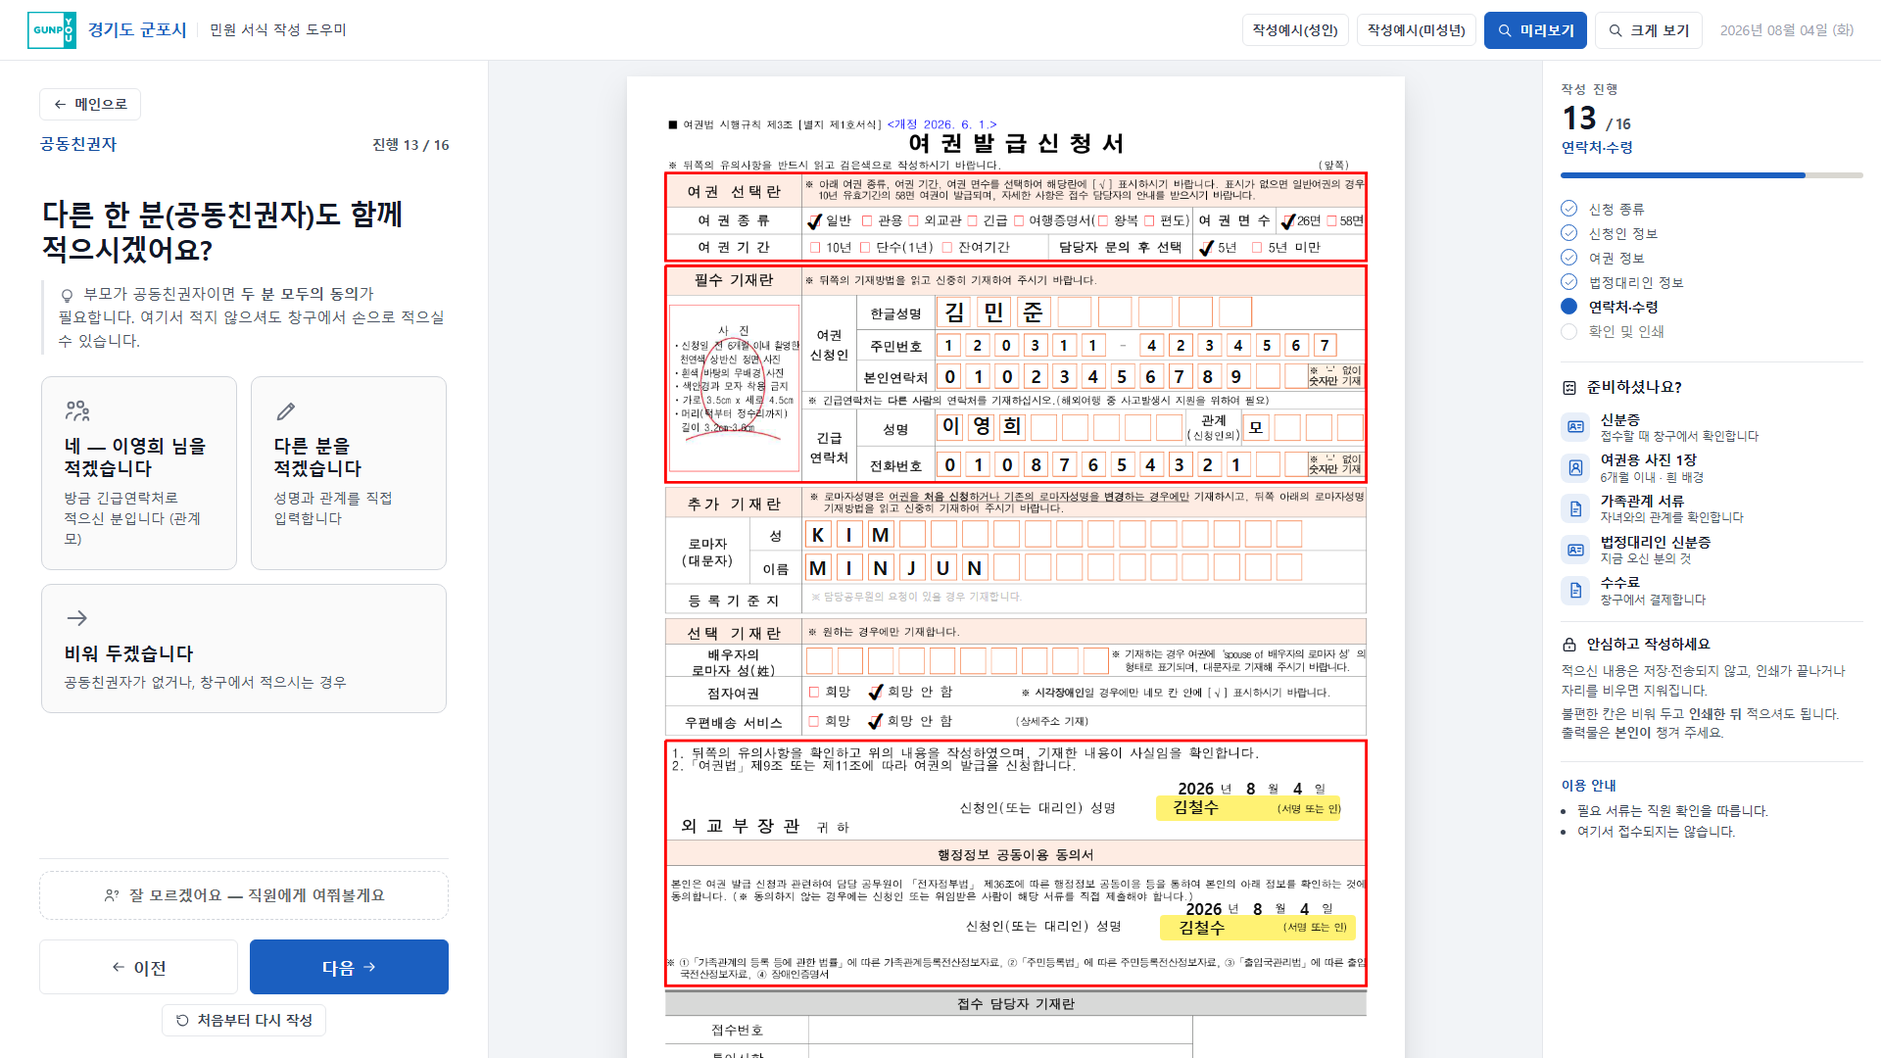
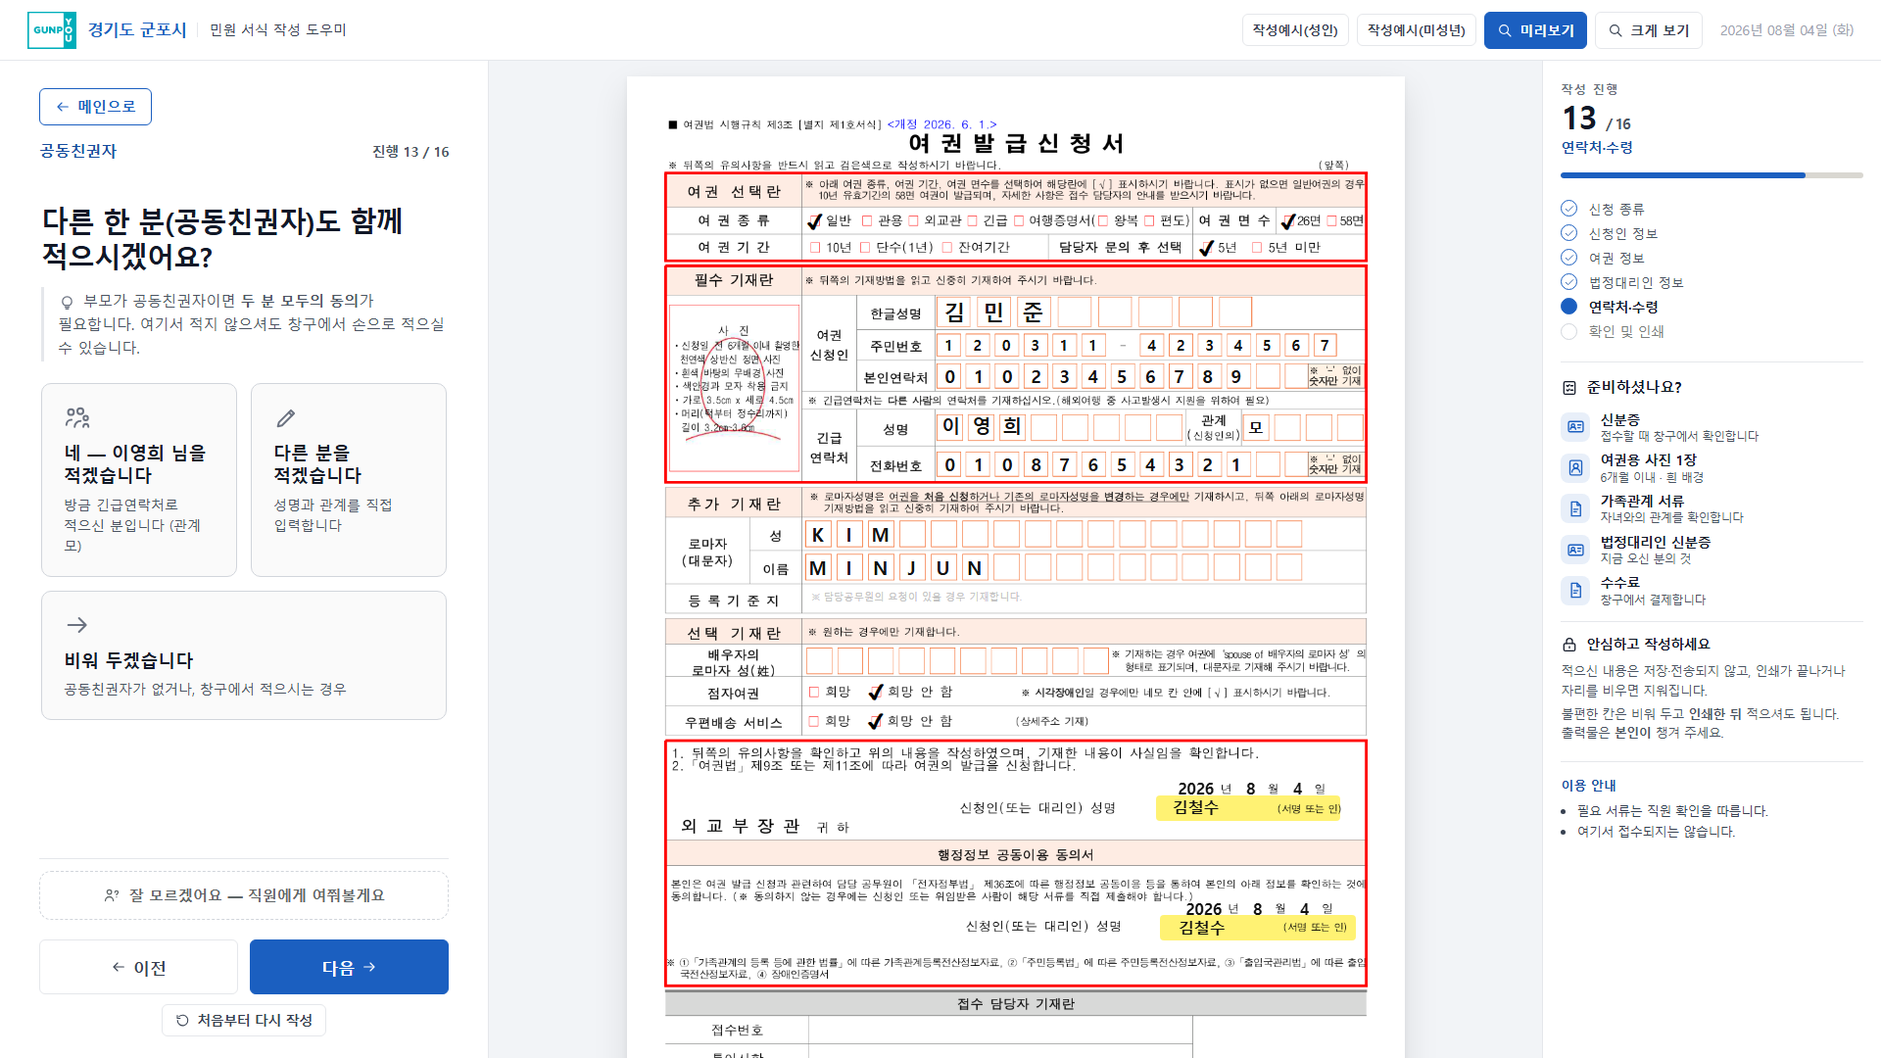
여권: 「← 메인으로」를 Role ② 본문 단추로 — 눈에 걸리지 않던 것
현장 의견 — 「미리보기처럼 좀 눈에 띄면 좋겠다」.

회색 1px 테두리 · 잉크 글자(13.5px) → 대표색 1.5px 테두리 · 대표색 글자 · 흰 면(15px).
BAR 의 [미리보기]와 같은 family 의 테두리 변형이다. 실측 104×33 → 115×38
(크게 보기 114×37 → 133×44).

종전에는 「처음부터 다시 작성」과 같은 계층이었는데 뜻이 다르다 — 메인으로는 되돌릴 수 있는
이동이고 초기화는 되돌릴 수 없는 파기다. 계층이 같으면 그 차이가 보이지 않는다.
그래서 「처음부터 다시 작성」은 Role ④ 그대로 두었다.

⛔ 새 수치를 만들지 않았다 — 이미 있던 `.btn`(Role ② 보조 버튼) 규격을 그대로 썼다.
⛔ 채운 대표색(solid)으로 하지 않았다 — 이 화면에서 앞으로 가는 길은 [다음]이고,
   위아래에 채운 파란 단추가 둘이면 어느 쪽이 진행인지 흐려진다.

나머지 색 문제(BAR tint · [미리보기] 강조도 · Handoff 두 variant 의 톤)는 여전히
Color & Visual Polish backlog 다.

확인: verify-print 19쪽 0px · --electron 19쪽 0px · measure-screen 15화면(가로 넘침 0 ·
종이 794×1122) · verify-site-config 6 · check-design-tokens·check-site-block 9화면 동일 ·
sync-kiosk --check · 질문칸 높이 643→636(일반)·613→604(크게) · RAIL 넘침 0.

diff --git a/kiosk-app/app/passport-helper-v1.html b/kiosk-app/app/passport-helper-v1.html
@@ -669,29 +669,37 @@ html.big{
   /* ⚠ 2026.08.28 — 아래를 지나던 **2px 대표색 띠를 걷었다**(단계 3). 구분은 선이
      아니라 여백이 맡는다(Main 과 같은 문법). ⛔ 되살리지 마라 — 화면마다 색 띠가
      두세 줄씩 생기면 정작 질문이 묻힌다. */
-  /* ASK 상단 navigation — 조용한 되돌아가기. ⚠ 아래 단계 제목과 계층이 겹치지 않게
-     한 치수 작고 잉크색이다(대표색·테두리를 쓰지 않는다). */
-  /* ══ Button Role ④ Compact-Tertiary (2026.08.28) ═══════════════════════
-     「메인으로」와 「처음부터 다시 작성」은 **같은 조형**이다 — 작고 조용한 테두리 단추.
-     ⚠ 종전에는 둘 다 글자만 떠 있어서 **누를 수 있는 것인지 보이지 않았다.**
-        hover 가 없는 터치 화면에서는 알 길이 아예 없다(⛔ hover 의존 금지).
-     ⛔ 눈에 띄게 만들지 마라. 면은 흰색이고 테두리는 1px 이며 대표색을 쓰지 않는다 —
-        이 화면에서 앞으로 가는 길은 [다음]이지 이것들이 아니다.
-     ⚠ 뜻은 서로 다르다 : 메인으로 = **이 업무를 나간다** ·
-        처음부터 = **지금 적은 것을 전부 버린다**(`askConfirm` 으로 한 번 더 묻는다). */
-  .ask-nav{flex:0 0 auto;margin-bottom:12px;}
-  .nav-back,.reset-btn{display:inline-flex;align-items:center;justify-content:center;gap:7px;
-    font-family:inherit;font-size:13.5px;font-weight:var(--fw-bold);line-height:1;
-    color:var(--m-ink-sub);background:var(--m-surface);text-decoration:none;
-    border:1px solid var(--m-border);border-radius:var(--m-r-btn);
-    padding:8px 13px;cursor:pointer;
+  /* ══ ASK 상단 navigation · 하단 초기화 — **역할이 다른 두 단추** ══════════
+     ⚠ 뜻이 다르다 : 메인으로 = **이 업무를 나간다**(되돌릴 수 있다) ·
+        처음부터 = **지금 적은 것을 전부 버린다**(`askConfirm` 으로 한 번 더 묻는다).
+     ⚠ 둘 다 **hover 없이도 누를 수 있는 것임이 보여야 한다** — 종전에는 글자만 떠 있어서
+        터치 화면에서는 알 길이 아예 없었다(⛔ hover 의존 금지).
+     ⚠ 2026.08.29 — 뜻이 다르니 **계층도 갈랐다**(현장 의견).
+        메인으로  = **Role ② 본문 단추**(대표색 테두리 · 대표색 글자 · 흰 면)
+        처음부터  = **Role ④ Compact-Tertiary**(회색 테두리 · 잉크 글자) 그대로
+        ⛔ 여기서 새 수치를 만들지 마라. 위 `.btn` 규격을 그대로 쓴다. */
+  .ask-nav{flex:0 0 auto;margin-bottom:14px;}
+  .nav-back,.reset-btn{display:inline-flex;align-items:center;justify-content:center;
+    font-family:inherit;line-height:1;background:var(--m-surface);text-decoration:none;
+    border-radius:var(--m-r-btn);cursor:pointer;
     transition:border-color var(--dur-quick) var(--ease-out),
                background var(--dur-quick) var(--ease-out),
                color var(--dur-quick) var(--ease-out);}
-  .nav-back:hover{border-color:var(--m-border-mid);background:var(--m-bg);color:var(--blue);}
-  .nav-back .btn-ic,.reset-btn .btn-ic{width:15px;height:15px;}
-  html.big .nav-back,html.big .reset-btn{font-size:15px;padding:9px 14px;}
-  html.big .nav-back .btn-ic,html.big .reset-btn .btn-ic{width:17px;height:17px;}
+  /* Role ② 본문 단추 — BAR 의 [미리보기]와 **같은 family** 의 테두리 변형이다.
+     ⛔ 채운 대표색(solid)으로 만들지 마라. 이 화면에서 **앞으로 가는 길은 [다음]**이고,
+        위아래에 채운 파란 단추가 둘이면 어느 쪽이 진행인지 흐려진다. */
+  .nav-back{gap:7px;font-size:15px;font-weight:var(--fw-bold);
+    color:var(--blue);border:1.5px solid var(--blue);padding:10px 15px;}
+  .nav-back:hover{background:var(--m-a06);}
+  .nav-back .btn-ic{width:16px;height:16px;}
+  /* Role ④ Compact-Tertiary — 되돌릴 수 없는 행동이라 **가장 조용하다** */
+  .reset-btn{gap:7px;font-size:13.5px;font-weight:var(--fw-bold);
+    color:var(--m-ink-sub);border:1px solid var(--m-border);padding:8px 13px;}
+  .reset-btn .btn-ic{width:15px;height:15px;}
+  html.big .nav-back{font-size:17.5px;padding:12px 18px;}
+  html.big .nav-back .btn-ic{width:18px;height:18px;}
+  html.big .reset-btn{font-size:15px;padding:9px 14px;}
+  html.big .reset-btn .btn-ic{width:17px;height:17px;}
 
   .topline{display:flex;justify-content:space-between;align-items:baseline;gap:16px;
     padding-bottom:15px;margin-bottom:26px;flex:0 0 auto;position:relative;}

diff --git a/passport-helper-v1.html b/passport-helper-v1.html
@@ -669,29 +669,37 @@ html.big{
   /* ⚠ 2026.08.28 — 아래를 지나던 **2px 대표색 띠를 걷었다**(단계 3). 구분은 선이
      아니라 여백이 맡는다(Main 과 같은 문법). ⛔ 되살리지 마라 — 화면마다 색 띠가
      두세 줄씩 생기면 정작 질문이 묻힌다. */
-  /* ASK 상단 navigation — 조용한 되돌아가기. ⚠ 아래 단계 제목과 계층이 겹치지 않게
-     한 치수 작고 잉크색이다(대표색·테두리를 쓰지 않는다). */
-  /* ══ Button Role ④ Compact-Tertiary (2026.08.28) ═══════════════════════
-     「메인으로」와 「처음부터 다시 작성」은 **같은 조형**이다 — 작고 조용한 테두리 단추.
-     ⚠ 종전에는 둘 다 글자만 떠 있어서 **누를 수 있는 것인지 보이지 않았다.**
-        hover 가 없는 터치 화면에서는 알 길이 아예 없다(⛔ hover 의존 금지).
-     ⛔ 눈에 띄게 만들지 마라. 면은 흰색이고 테두리는 1px 이며 대표색을 쓰지 않는다 —
-        이 화면에서 앞으로 가는 길은 [다음]이지 이것들이 아니다.
-     ⚠ 뜻은 서로 다르다 : 메인으로 = **이 업무를 나간다** ·
-        처음부터 = **지금 적은 것을 전부 버린다**(`askConfirm` 으로 한 번 더 묻는다). */
-  .ask-nav{flex:0 0 auto;margin-bottom:12px;}
-  .nav-back,.reset-btn{display:inline-flex;align-items:center;justify-content:center;gap:7px;
-    font-family:inherit;font-size:13.5px;font-weight:var(--fw-bold);line-height:1;
-    color:var(--m-ink-sub);background:var(--m-surface);text-decoration:none;
-    border:1px solid var(--m-border);border-radius:var(--m-r-btn);
-    padding:8px 13px;cursor:pointer;
+  /* ══ ASK 상단 navigation · 하단 초기화 — **역할이 다른 두 단추** ══════════
+     ⚠ 뜻이 다르다 : 메인으로 = **이 업무를 나간다**(되돌릴 수 있다) ·
+        처음부터 = **지금 적은 것을 전부 버린다**(`askConfirm` 으로 한 번 더 묻는다).
+     ⚠ 둘 다 **hover 없이도 누를 수 있는 것임이 보여야 한다** — 종전에는 글자만 떠 있어서
+        터치 화면에서는 알 길이 아예 없었다(⛔ hover 의존 금지).
+     ⚠ 2026.08.29 — 뜻이 다르니 **계층도 갈랐다**(현장 의견).
+        메인으로  = **Role ② 본문 단추**(대표색 테두리 · 대표색 글자 · 흰 면)
+        처음부터  = **Role ④ Compact-Tertiary**(회색 테두리 · 잉크 글자) 그대로
+        ⛔ 여기서 새 수치를 만들지 마라. 위 `.btn` 규격을 그대로 쓴다. */
+  .ask-nav{flex:0 0 auto;margin-bottom:14px;}
+  .nav-back,.reset-btn{display:inline-flex;align-items:center;justify-content:center;
+    font-family:inherit;line-height:1;background:var(--m-surface);text-decoration:none;
+    border-radius:var(--m-r-btn);cursor:pointer;
     transition:border-color var(--dur-quick) var(--ease-out),
                background var(--dur-quick) var(--ease-out),
                color var(--dur-quick) var(--ease-out);}
-  .nav-back:hover{border-color:var(--m-border-mid);background:var(--m-bg);color:var(--blue);}
-  .nav-back .btn-ic,.reset-btn .btn-ic{width:15px;height:15px;}
-  html.big .nav-back,html.big .reset-btn{font-size:15px;padding:9px 14px;}
-  html.big .nav-back .btn-ic,html.big .reset-btn .btn-ic{width:17px;height:17px;}
+  /* Role ② 본문 단추 — BAR 의 [미리보기]와 **같은 family** 의 테두리 변형이다.
+     ⛔ 채운 대표색(solid)으로 만들지 마라. 이 화면에서 **앞으로 가는 길은 [다음]**이고,
+        위아래에 채운 파란 단추가 둘이면 어느 쪽이 진행인지 흐려진다. */
+  .nav-back{gap:7px;font-size:15px;font-weight:var(--fw-bold);
+    color:var(--blue);border:1.5px solid var(--blue);padding:10px 15px;}
+  .nav-back:hover{background:var(--m-a06);}
+  .nav-back .btn-ic{width:16px;height:16px;}
+  /* Role ④ Compact-Tertiary — 되돌릴 수 없는 행동이라 **가장 조용하다** */
+  .reset-btn{gap:7px;font-size:13.5px;font-weight:var(--fw-bold);
+    color:var(--m-ink-sub);border:1px solid var(--m-border);padding:8px 13px;}
+  .reset-btn .btn-ic{width:15px;height:15px;}
+  html.big .nav-back{font-size:17.5px;padding:12px 18px;}
+  html.big .nav-back .btn-ic{width:18px;height:18px;}
+  html.big .reset-btn{font-size:15px;padding:9px 14px;}
+  html.big .reset-btn .btn-ic{width:17px;height:17px;}
 
   .topline{display:flex;justify-content:space-between;align-items:baseline;gap:16px;
     padding-bottom:15px;margin-bottom:26px;flex:0 0 auto;position:relative;}

diff --git a/docs/PRODUCT_SKIN_v1.md b/docs/PRODUCT_SKIN_v1.md
@@ -171,9 +171,9 @@ Blue = 안내. 값은 공통 토큰(`--warn-*`·`--notice-*`)을 씁니다.
 | Role | 어디에 | 높이 | 글자 | padding | 반경 | 아이콘 |
 |---|---|---|---|---|---|---|
 | ① **CTA** | ASK 바닥 [이전]·[다음]·[신청서 인쇄] | **56**(Big 72) | **17**/800(Big 21) | `0 16` | **6** | 16 |
-| ② **Body Button** | 본문 안의 행동(Handoff 단추·예시 적용·모르겠어요) | 36~44 | 13.5~14.5/700~800 | `8 12`~`11 15` | **6** | 18 |
+| ② **Body Button** | 본문 안의 행동(Handoff 단추·예시 적용·모르겠어요) · **「← 메인으로」** | 36~44 | 13.5~15/700~800 | `8 12`~`11 15` | **6** | 16~18 |
 | ③ **BAR Utility** | 상단 바 도구 | **38**(compact **33**) | **14**(compact **13**)/700 | `9 12` / `7 10` | **6** | 16 |
-| ④ **Compact / Tertiary** | 「← 메인으로」·「처음부터 다시 작성」 | **33** | **13.5**/700 | `8 13` | **6** | 15 |
+| ④ **Compact / Tertiary** | 「처음부터 다시 작성」 | **33** | **13.5**/700 | `8 13` | **6** | 15 |
 
 ⛔ **같은 role 안에서 높이·글자·반경을 새로 만들지 마십시오.** 새 화면이 생겨도 이 넷 중
    하나를 고릅니다. 어느 것에도 맞지 않는다면 그것은 새 버튼이 아니라 **잘못 설계된 행동**입니다.
@@ -192,18 +192,20 @@ Blue = 안내. 값은 공통 토큰(`--warn-*`·`--notice-*`)을 씁니다.
 
 ⛔ 좌표를 손으로 맞추지 마십시오. 이 규칙 하나가 자리를 정합니다.
 
-### 3-3. 「← 메인으로」와 「처음부터 다시 작성」 — 뜻이 다른 두 tertiary
+### 3-3. 「← 메인으로」와 「처음부터 다시 작성」 — 뜻이 다르니 계층도 다릅니다
 
-둘 다 **Role ④** 로 같은 조형이지만 **하는 일이 다릅니다.**
+| | 자리 | Role | 조형 | 뜻 | 확인 절차 |
+|---|---|---|---|---|---|
+| **← 메인으로** | ASK **맨 위**(`.ask-nav`) | **② Body Button** | 대표색 1.5px 테두리 · 대표색 글자 · 흰 면 · 15px | **업무 이탈** — 이 서식을 떠나 허브로 | 없음(무동작 3분·인쇄 후 초기화가 값을 지웁니다) |
+| **↺ 처음부터 다시 작성** | ASK **맨 아래**(`.ask-reset`) | **④ Compact-Tertiary** | 회색 1px 테두리 · 잉크 글자 · 13.5px | **현재 업무 초기화** — 지금 적은 것을 전부 버림 | **있음**(`askConfirm` → `resetAll`) |
 
-| | 자리 | 뜻 | 확인 절차 |
-|---|---|---|---|
-| **← 메인으로** | ASK **맨 위**(`.ask-nav`) | **업무 이탈** — 이 서식을 떠나 허브로 | 없음(무동작 3분·인쇄 후 초기화가 값을 지웁니다) |
-| **↺ 처음부터 다시 작성** | ASK **맨 아래**(`.ask-reset`) | **현재 업무 초기화** — 지금 적은 것을 전부 버림 | **있음**(`askConfirm` → `resetAll`) |
-
-⚠ **hover 없이도 누를 수 있는 것임이 보여야 합니다.** 흰 면 + 1px 테두리 + 반경 6 이
-   그 몫입니다. 종전에는 글자만 떠 있어 **터치 화면에서는 알 길이 아예 없었습니다.**
-⛔ 대표색을 쓰거나 강하게 만들지 마십시오 — 앞으로 가는 길은 [다음]입니다.
+⚠ **hover 없이도 누를 수 있는 것임이 보여야 합니다.** 둘 다 테두리와 면이 그 몫입니다 —
+   종전에는 글자만 떠 있어 **터치 화면에서는 알 길이 아예 없었습니다.**
+⚠ 2026.08.29 — 「메인으로」가 **너무 조용해서 눈에 안 걸린다**는 현장 의견에 따라
+   Role ④ → **Role ②** 로 올렸습니다. BAR 의 [미리보기]와 같은 family 의 **테두리 변형**입니다.
+⛔ **채운 대표색(solid)으로 만들지 마십시오.** 이 화면에서 앞으로 가는 길은 [다음]이고,
+   위아래에 채운 파란 단추가 둘이면 어느 쪽이 진행인지 흐려집니다.
+⛔ **초기화는 올리지 마십시오.** 되돌릴 수 없는 행동이라 가장 조용해야 합니다.
 ⛔ 초기화를 BAR 에 두지 마십시오(§1-1). 작성 내용에 대한 행동입니다.
 ⛔ Human Handoff 와 시각 계층을 겹치지 마십시오 — 저기는 **지금 이 질문**을 푸는 도움입니다.
 
@@ -295,6 +297,18 @@ Shell v1 은 **구조·위치·크기·타이포의 일원화**까지다. 아래
 | 전체 surface·대표색 농도 | 화면 전체의 색 농도를 한 번에 본다 |
 
 ## 다른 7종에 이식할 때
+
+📌 **기준점은 커밋 `1d735fc`(2026.08.28)입니다.** 서식 하나를 붙이는 순서는 다섯 단계이고,
+아래 절차는 그중 **③ Product UI v1 이식** 에 해당합니다.
+
+```
+① 실제 서식·업무규칙 확인 → ② 질문 흐름·조건 정의 → ③ Product UI v1 이식
+                                            → ④ 인쇄 좌표 검증 → ⑤ 회귀검증
+```
+
+⛔ **UI 값을 새로 만들지 마십시오.** 이식은 판단이 아니라 복제입니다.
+⛔ **공통 component 를 서식별로 변형하지 마십시오.** 이 문법으로 표현할 수 없는 **실제 업무
+   요구**가 나왔을 때만 새 component·variant 를 **제안하고 승인을 받습니다.**
 
 1. `MAIN-SKIN v1` 블록을 그 파일에 **글자까지 똑같이** 복제(화면 무변경 확인)
 2. **BAR Shell**(§1-1) → **Typography**(§1-2 · 지역 `:root` 묶음을 통째로) → 골격(26/56/18)

diff --git a/AGENTS.md b/AGENTS.md
@@ -104,6 +104,30 @@ node --check <고친 파일>.js              # 문법(엔진·config·kiosk-app)
 - 성격이 다른 변경은 커밋을 나눈다(코드 / 이동·정리 / 문서).
 - 현장에서 온 의견을 반영했으면 `CHANGELOG.md` 에 **무엇을·왜·어디를·확인** 형식으로 남긴다.
 
+## 5-1. 화면 조형 — **Product UI v1 이 기준점이다** (커밋 `1d735fc` · 2026.08.28)
+
+여권에서 **Product Shell**(상단 BAR) · **Product Typography** · **ASK Component System**
+(Button Role 4종·Navigation Zone) · **Handoff Family** · **크게 보기** · **한국어 조판**을
+확정했다. 값은 전부 [`docs/PRODUCT_SKIN_v1.md`](docs/PRODUCT_SKIN_v1.md) 에 있다.
+
+⛔ **이것들을 재설계하지 마라.** 새 서식을 붙일 때 UI 값을 새로 만들지 말고 **이식만** 한다 —
+이식은 판단이 아니라 복제다. 서식마다 값이 갈라지면 「같은 제품」이 무너진다.
+
+서식 하나를 붙이는 순서는 **다섯 단계**다(`docs/EXPANSION_PLAYBOOK.md` 가 각 단계의 세부):
+
+1. **실제 서식·업무규칙 확인** — 법정 별지서식·소관 부서 기준
+2. **질문 흐름·조건 정의** — 무엇을 언제 묻고 어디서 갈라지는지
+3. **Product UI v1 이식** — `PRODUCT_SKIN_v1.md` 를 한 번에 적용
+4. **인쇄 좌표 검증** — `verify-print.py --update` 로 기준선에 넣고 이유를 `CHANGELOG.md` 에
+5. **회귀검증** — §2 의 도구 전부
+
+⛔ 기존 공통 component 를 **서식별로 변형하지 마라.** Product UI v1 로 표현할 수 없는
+**실제 업무 요구**가 나왔을 때만 새 component·variant 를 **제안하고 승인을 받는다.**
+⛔ 여권 화면은 `1d735fc` 이후 **기능·업무규칙·인쇄·개인정보·접근성 결함**일 때만 연다.
+미관상의 이유로 다시 열지 않는다.
+📌 **Color & Visual Polish**(BAR tint·primary/secondary 위계·미리보기 강조도·Handoff 두
+variant 의 톤·전체 색 농도)는 **별도 backlog** 다 — 서식 하나에서 색만 손대지 마라.
+
 ## 6. 다른 기관에 확산할 때
 
 지역 고유값(기관명·부서·연락처·로고·앱 이름)은 `python tools/rebrand.py` 로 일괄 교체한다.

diff --git a/CHANGELOG.md b/CHANGELOG.md
@@ -16,6 +16,33 @@
 
 ---
 
+## 2026.08.29
+
+### [반영] 여권 상세의 **「← 메인으로」가 눈에 안 걸리던 것**  · 현장 의견
+
+- 무엇을: 「← 메인으로」를 **Role ④ Compact-Tertiary → Role ② Body Button** 으로 올렸다.
+  회색 1px 테두리 · 잉크 글자(13.5px) → **대표색 1.5px 테두리 · 대표색 글자 · 흰 면(15px)**.
+  BAR 의 [미리보기]와 **같은 family 의 테두리 변형**이다.
+  실측 104×33 → **115×38**(크게 보기 114×37 → 133×44).
+- 왜: 「미리보기처럼 좀 눈에 띄면 좋겠다」는 의견. 종전 값은 초기화와 같은 계층이었는데,
+  **뜻이 다르다** — 메인으로는 되돌릴 수 있는 이동이고 초기화는 되돌릴 수 없는 파기다.
+  계층이 같으면 그 차이가 보이지 않는다.
+- ⛔ **새 수치를 만들지 않았다.** 이미 있던 `.btn`(Role ② 보조 버튼) 규격을 그대로 썼다.
+- ⛔ **채운 대표색(solid)으로 하지 않았다.** 이 화면에서 앞으로 가는 길은 [다음]이고,
+  위아래에 채운 파란 단추가 둘이면 어느 쪽이 진행인지 흐려진다.
+- ⛔ **「처음부터 다시 작성」은 그대로 두었다**(Role ④). 되돌릴 수 없는 행동이라 가장 조용해야 한다.
+- 어디를: `passport-helper-v1.html`(`.nav-back`·`.reset-btn` 분리) · `kiosk-app/app/`(동기화) ·
+  `tests/screen-baseline.json` · `docs/디자인검토/shots/`(재생성) ·
+  `docs/PRODUCT_SKIN_v1.md` §3-1·§3-3 · `docs/UIUX_HANDOFF.md` §4-2-3·§4-2-4.
+- 확인: `verify-print` 19쪽 0px · `--electron` 19쪽 0px · `measure-screen` 15화면
+  (가로 넘침 0 · 종이 794×1122) · `verify-site-config` 6 ·
+  `check-design-tokens`·`check-site-block` 9화면 동일 · `sync-kiosk --check` ·
+  질문칸 높이 643→636(일반)·613→604(크게) · RAIL 넘침 0.
+- 📌 나머지 색 문제(BAR tint · [미리보기] 강조도 · Handoff 두 variant 의 톤)는 여전히
+  **Color & Visual Polish** backlog 다.
+
+---
+
 ## 2026.08.28 (3)
 
 ### [완료] **Passport / Product UI v1** — Main 의 디자인 언어를 여권에 그대로 옮기고 값을 동결했다  · 사용자 지시
